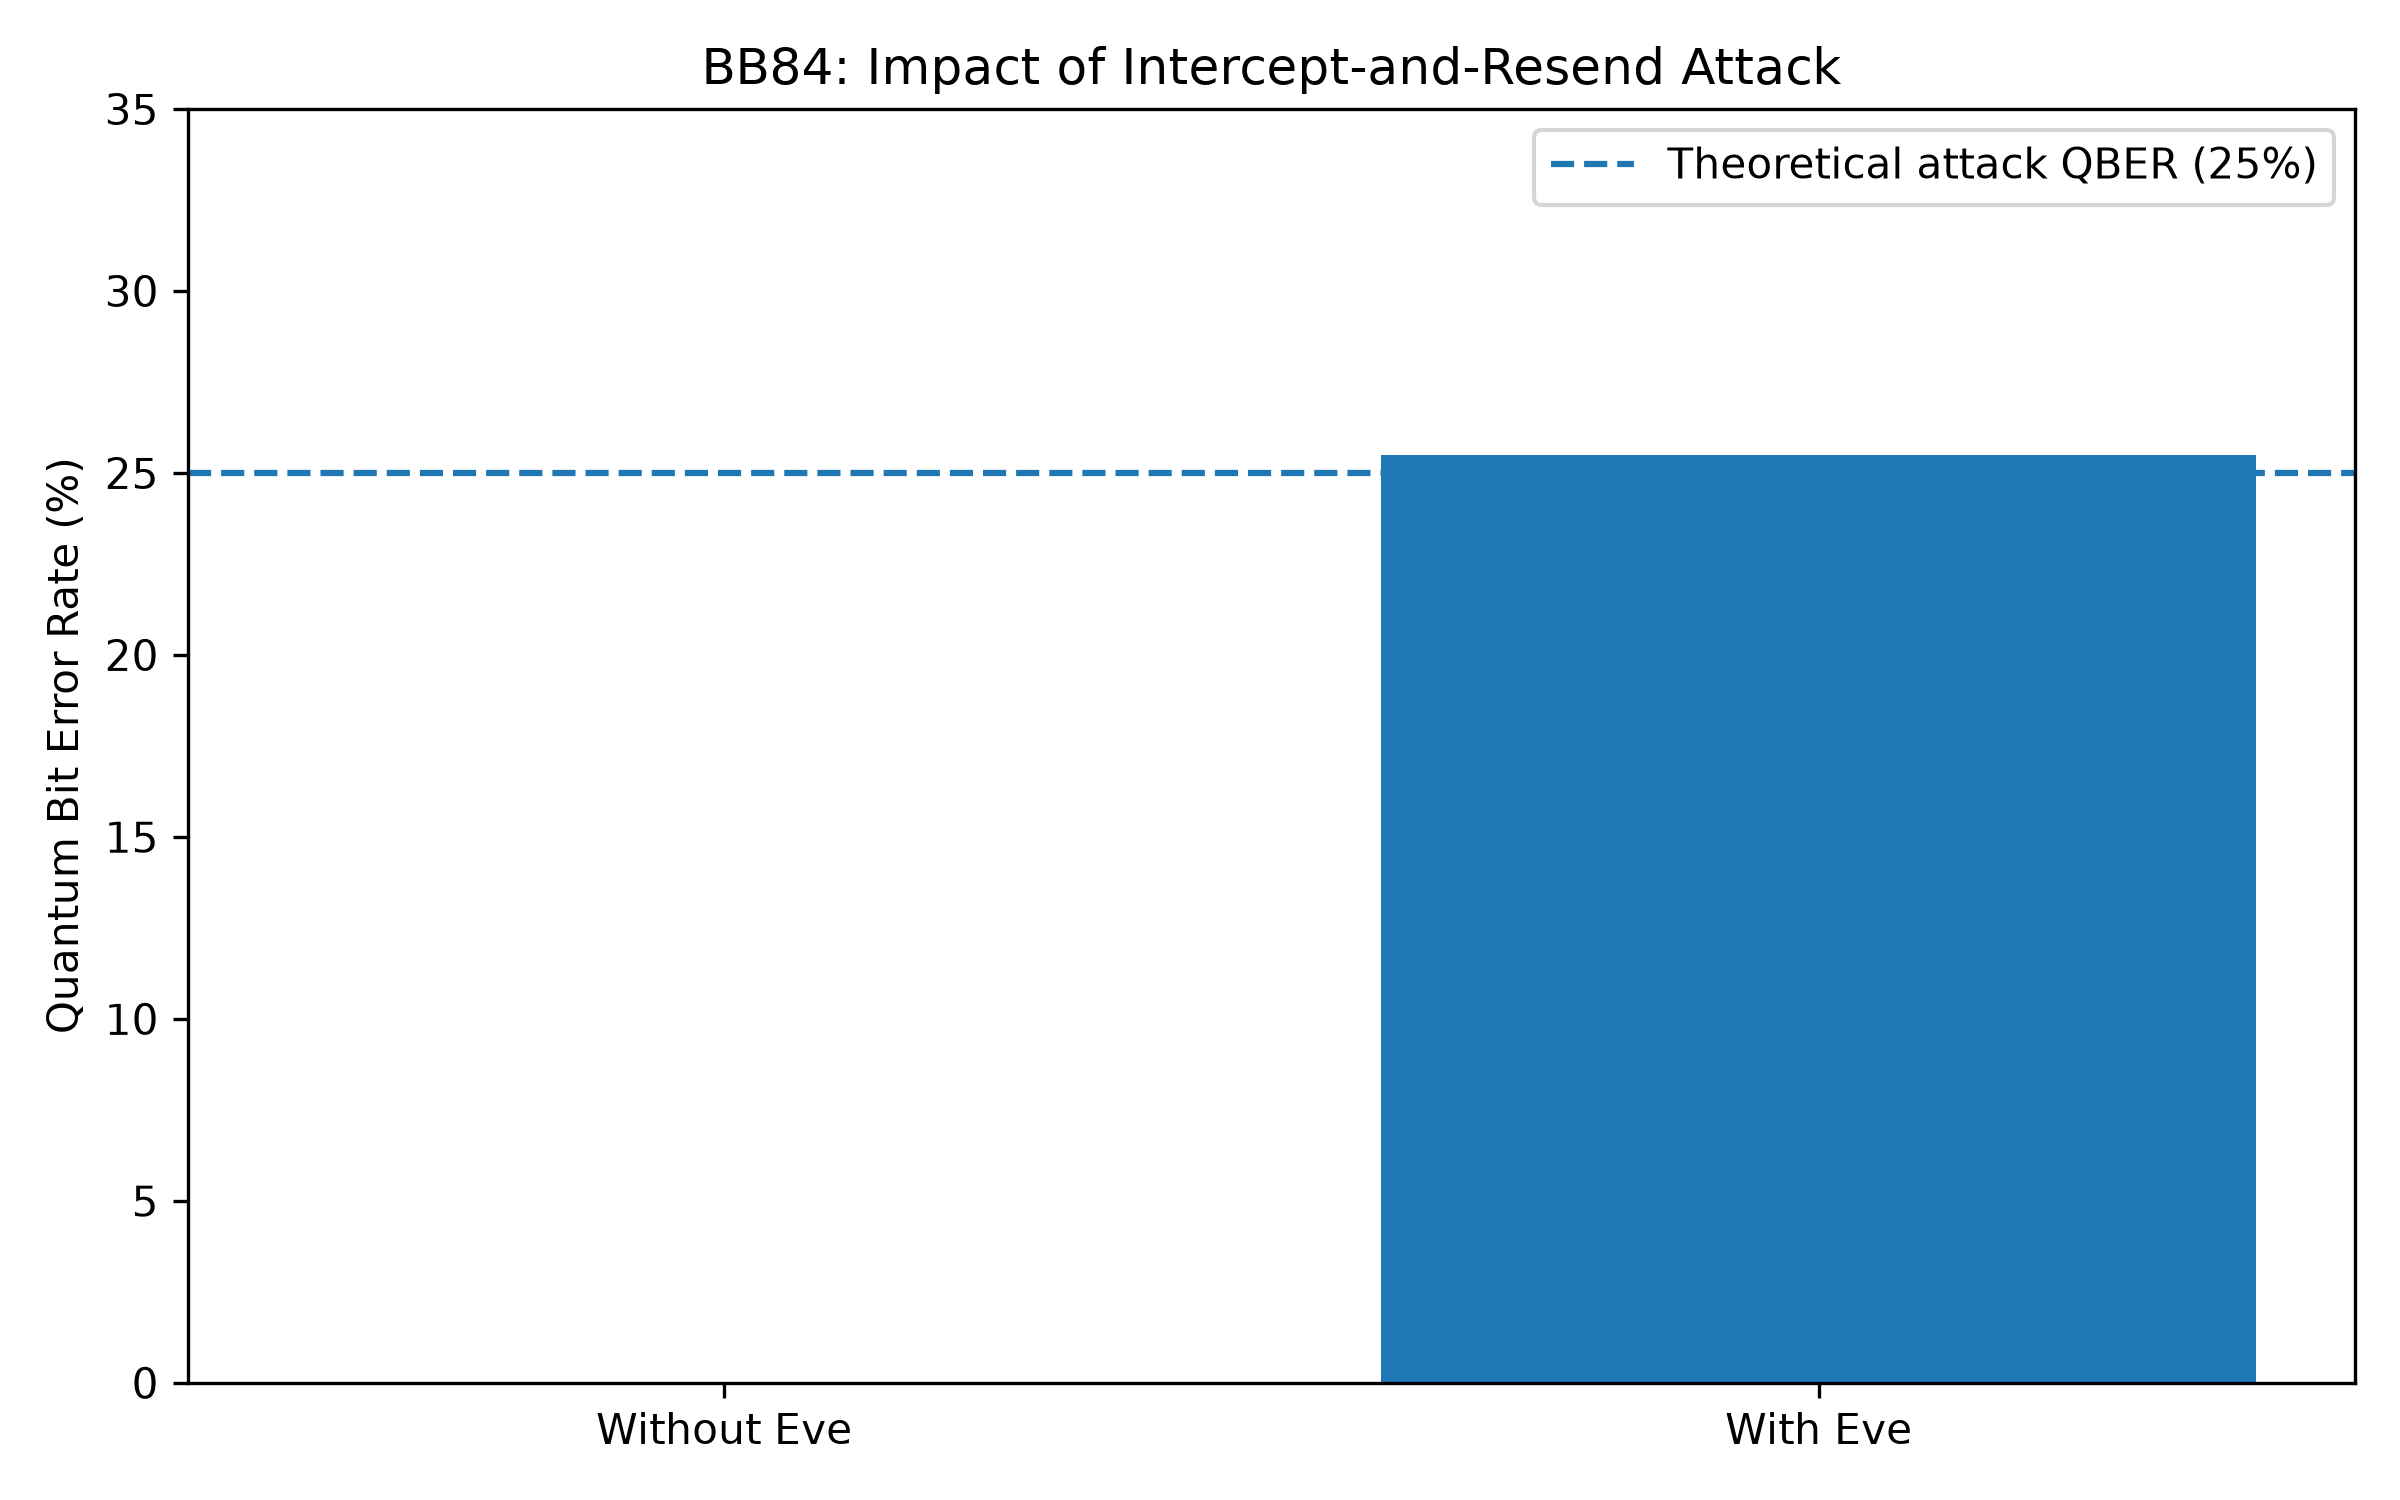
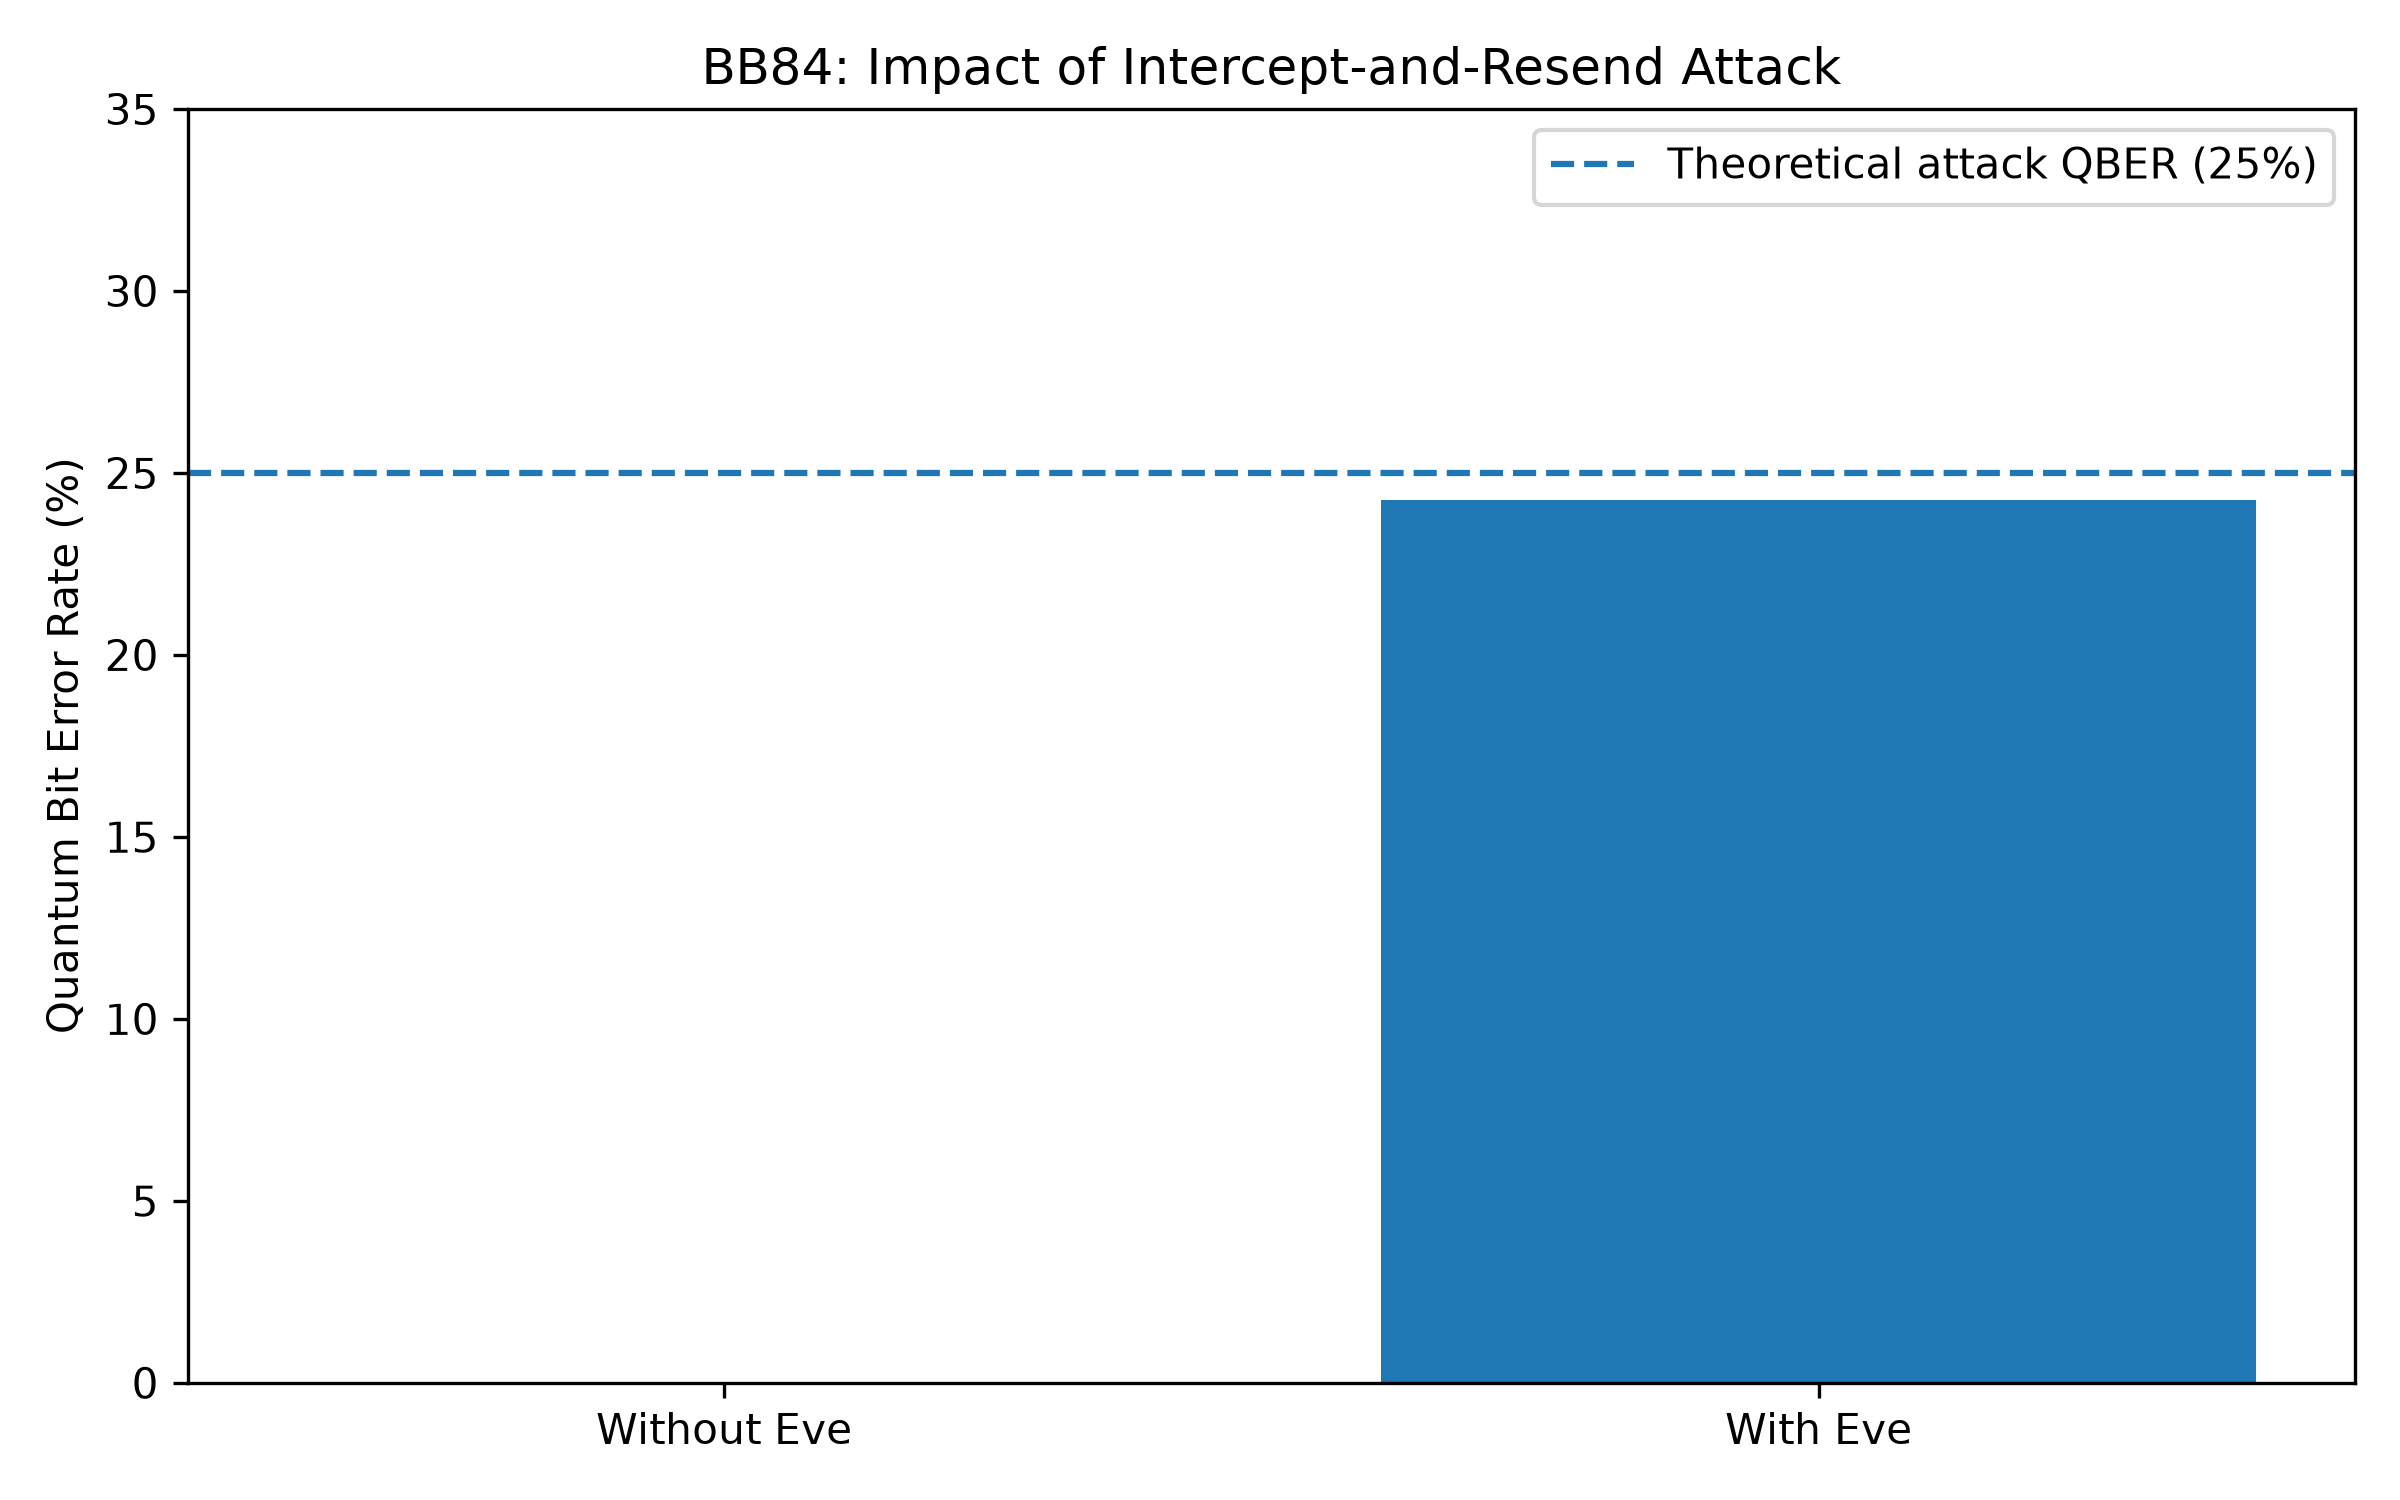
Finalize BB84 simulation and update documentation

Changed region(s): [[0.5625, 0.276, 0.9375, 0.3373]]

diff --git a/bb84/alice.py b/bb84/alice.py
@@ -4,16 +4,15 @@ from bb84.quantum import encode_qubit
 
 def generate_bits(n):
     """Generate n cryptographically secure random bits."""
-    if n <= 0:
-        raise ValueError("Number of bits must be positive")
+    if not isinstance(n, int) or isinstance(n, bool) or n <= 0:
+        raise ValueError("n must be a positive integer")
 
     return [secrets.randbits(1) for _ in range(n)]
 
-
 def generate_bases(n):
     """Generate random Z and X measurement bases."""
-    if n <= 0:
-        raise ValueError("Number of bases must be positive")
+    if not isinstance(n, int) or isinstance(n, bool) or n <= 0:
+        raise ValueError("n must be a positive integer")
 
     return [
         "Z" if secrets.randbits(1) == 0 else "X"

diff --git a/bb84/bob.py b/bb84/bob.py
@@ -4,9 +4,8 @@ from bb84.quantum import measure_qubit
 
 def generate_bases(n):
     """Generate Bob's independent random bases."""
-    if n <= 0:
-        raise ValueError("Number of bases must be positive")
-
+    if not isinstance(n, int) or isinstance(n, bool) or n <= 0:
+        raise ValueError("n must be a positive integer")
     return [
         "Z" if secrets.randbits(1) == 0 else "X"
         for _ in range(n)
@@ -34,3 +33,4 @@ def bob_simulation(states):
 
     return bases, results
 
+    return indices, alice_key, bob_ke

diff --git a/bb84/sifting.py b/bb84/sifting.py
@@ -2,13 +2,15 @@ def compare_bases(alice_bases, bob_bases):
     if len(alice_bases) != len(bob_bases):
         raise ValueError("Basis lengths must match")
 
+    if any(b not in ("Z", "X") for b in alice_bases + bob_bases):
+        raise ValueError("Bases must be Z or X")
+
     return [
         i for i, (a, b) in enumerate(
             zip(alice_bases, bob_bases)
         )
         if a == b
     ]
-
 
 def sift_key(bits, matching_indices):
     return [bits[i] for i in matching_indices]

diff --git a/bb84/security.py b/bb84/security.py
@@ -7,12 +7,14 @@ def calculate_qber(alice_key, bob_key):
     if len(alice_key) == 0:
         raise ValueError("Keys cannot be empty")
 
+    if any(bit not in (0, 1) for bit in alice_key + bob_key):
+        raise ValueError("Keys must contain only binary bits")
+
     errors = sum(
         a != b for a, b in zip(alice_key, bob_key)
     )
 
     total_bits = len(alice_key)
-
     qber = (errors / total_bits) * 100
 
     return errors, total_bits, qber

diff --git a/bb84/quantum.py b/bb84/quantum.py
@@ -35,6 +35,8 @@ def measure_qubit(state, basis, rng=None):
     """Measure a normalized qubit state in the Z or X basis."""
 
     state = np.asarray(state, dtype=complex)
+    if not np.all(np.isfinite(state)):
+        raise ValueError("State must contain finite values")
 
     if state.shape != (2,):
         raise ValueError("State must be a two-element vector")

diff --git a/bb84/eve.py b/bb84/eve.py
@@ -4,6 +4,8 @@ from bb84.quantum import measure_qubit, encode_qubit
 
 def generate_eve_bases(n):
     """Generate Eve's random measurement bases."""
+    if not isinstance(n, int) or isinstance(n, bool) or n < 0:
+        raise ValueError("n must be a non-negative integer")
     return [
         "Z" if secrets.randbits(1) == 0 else "X"
         for _ in range(n)

diff --git a/README.md b/README.md
@@ -2,19 +2,21 @@
 
 ## Project Overview
 
-This project implements the BB84 quantum key distribution protocol using Python and NumPy. It simulates quantum-state preparation, measurement, key sifting, and an intercept-and-resend eavesdropping attack.
+This project implements a software-based simulation of the BB84 quantum key distribution protocol using Python and NumPy.
 
-The primary objective is to demonstrate how quantum measurement disturbance can reveal the presence of an eavesdropper.
+It simulates quantum-state preparation, measurement, basis comparison, key sifting, and an intercept-and-resend eavesdropping attack.
+
+The primary objective is to demonstrate how quantum measurement disturbance can introduce errors into a shared key and help reveal potential eavesdropping.
 
 ## Objectives
 
-- Implement the BB84 quantum key distribution protocol.
-- Simulate quantum states using state vectors.
-- Implement Alice's encoding and Bob's measurement.
+- Implement the fundamental BB84 protocol.
+- Represent quantum states using state vectors.
+- Simulate Alice's encoding and Bob's measurement.
 - Perform basis comparison and key sifting.
-- Simulate Eve's intercept-and-resend attack.
+- Implement Eve's intercept-and-resend attack.
 - Calculate Quantum Bit Error Rate (QBER).
-- Compare secure and attacked communication channels.
+- Compare communication with and without an eavesdropper.
 - Visualize experimental results.
 
 ## Technologies Used
@@ -22,18 +24,13 @@ The primary objective is to demonstrate how quantum measurement disturbance can 
 - Python 3
 - NumPy
 - Matplotlib
-- Python Unittest
+- Python unittest
 - Kali Linux
 
 ## Project Architecture
 
 ```text
 BB84-Quantum-Cryptography/
-│
-├── main.py
-├── config.py
-├── requirements.txt
-├── README.md
 │
 ├── bb84/
 │   ├── __init__.py
@@ -50,24 +47,33 @@ BB84-Quantum-Cryptography/
 ├── results/
 │   └── qber_comparison.png
 │
-└── tests/
-    └── test_bb84.py
+├── screenshots/
+│   └── test_results.png
+│
+├── tests/
+│   └── test_bb84.py
+│
+├── requirements.txt
+├── .gitignore
+└── README.md
 ```
 
 ## BB84 Protocol
 
-BB84 is a quantum key distribution protocol introduced by Charles Bennett and Gilles Brassard in 1984.
+BB84 was introduced by Charles Bennett and Gilles Brassard in 1984.
 
 It uses two quantum bases:
 
 - **Z basis (Computational basis):** |0⟩ and |1⟩
 - **X basis (Diagonal basis):** |+⟩ and |−⟩
 
-Alice randomly generates bits and encoding bases. Bob independently selects measurement bases. They publicly compare their bases and retain only positions where their bases match.
+Alice randomly generates bits and encoding bases. Bob independently chooses measurement bases.
 
-## Eavesdropping Simulation
+They publicly compare their bases and retain only positions where their bases match. This process is called **key sifting**.
 
-The project implements an intercept-and-resend attack:
+## Intercept-and-Resend Attack
+
+The project simulates an intercept-and-resend attack:
 
 1. Eve intercepts the transmitted quantum states.
 2. Eve randomly selects a measurement basis.
@@ -78,44 +84,47 @@ The project implements an intercept-and-resend attack:
 
 ## Quantum Bit Error Rate (QBER)
 
-QBER measures the proportion of differing bits between Alice's and Bob's compared keys.
+QBER measures the percentage of differing bits between Alice's and Bob's sifted keys.
 
 **Formula:**
 
 QBER = (Number of errors / Total compared bits) × 100
 
-For an ideal BB84 channel with no eavesdropping, the expected QBER is 0%.
+For an ideal noiseless BB84 channel without eavesdropping, the expected QBER is 0%.
 
 For an ideal intercept-and-resend attack where Eve randomly chooses between the two BB84 bases, the expected QBER is 25%.
 
 ## Experimental Results
 
-The simulation demonstrated:
+The experiment was executed multiple times using 10,000 transmitted quantum states per run.
 
-| Experiment | Observed QBER |
-|---|---:|
-| Without Eve | 0.00% |
-| With Eve | Approximately 25% |
+Two observed runs:
 
-One experimental run produced 0.00% QBER without Eve and 25.19% QBER with Eve.
+| Experiment | Run 1 | Run 2 |
+|---|---:|---:|
+| Without Eve | 0.00% | 0.00% |
+| With Eve | 23.36% | 24.53% |
+| Theoretical attack QBER | 25% | 25% |
 
-Results vary slightly because of random sampling.
+The results vary because of random sampling. The observed attack QBER values are reasonably close to the theoretical 25% benchmark.
 
-## Visualization
+## QBER Visualization
 
-The project generates a comparison chart:
+The experiment generates a comparison chart:
 
 `results/qber_comparison.png`
 
-The chart compares the measured QBER in the two experiments against the theoretical 25% intercept-and-resend benchmark.
+The chart compares measured QBER with and without Eve against the theoretical 25% intercept-and-resend benchmark.
+
+![BB84 QBER Comparison](results/qber_comparison.png)
 
 ## Installation
 
 Clone the repository:
 
 ```bash
-git clone YOUR_GITHUB_REPOSITORY_URL
-cd BB84-Quantum-Cryptography
+git clone https://github.com/vishwag2520-G/BB84-QUANTUM-CRYPTOGRAPHY.git
+cd BB84-QUANTUM-CRYPTOGRAPHY
 ```
 
 Create and activate a virtual environment:
@@ -133,51 +142,44 @@ pip install -r requirements.txt
 
 ## Running the Experiment
 
-Run from the project root:
+From the project root, run:
 
 ```bash
 python -m experiments.run_experiments
 ```
 
-## 🧪 Testing
+## Automated Testing
 
 The project includes seven automated unit tests covering:
 
+- Quantum-state encoding in Z and X bases
+- Quantum measurement
 - Random bit generation
-- Quantum state preparation
-- Basis selection
-- Measurement operations
-- Key sifting
+- Random basis generation
+- Basis comparison
 - QBER calculation
-- Intercept-and-resend attack detection
-### Test Execution Screenshot
+
+Run the tests:
+
+```bash
+python -m unittest discover -s tests -v
+```
+
+**Verified test result:** 7 tests passed successfully.
 
 ![BB84 Automated Test Results](screenshots/test_results.png)
-- 
-- ## ⚠ Research Limitations
 
-- This project is a software-based BB84 simulation.
+## Research Limitations
+
+- This is a software-based BB84 simulation, not a physical quantum communication system.
 - It does not use real quantum hardware.
 - Quantum noise and hardware imperfections are not fully modeled.
-- The simulation demonstrates the basic BB84 protocol and an intercept-and-resend attack.
+- The implementation demonstrates the basic protocol and an intercept-and-resend attack.
+- It does not implement complete QKD post-processing, including error correction and privacy amplification.
 - It is an educational and experimental implementation, not a production-ready QKD system.
 
-**Test Result:** 7 tests passed successfully.
+## Conclusion
 
+The simulation demonstrates a fundamental security principle of BB84: measuring quantum states in an incorrect basis can disturb the transmitted information.
 
-The current test suite contains seven automated tests.
-All seven tests pass successfully.
-
-## 📊 Experimental Results
-
-| Experiment | Expected QBER |
-|---|---:|
-| Without Eve | 0% |
-| With intercept-and-resend attack | Approximately 25% |
-### QBER Comparison Chart
-
-![BB84 QBER Comparison](results/qber_comparison.png)
-
-### Security Observation
-The intercept-and-resend attack introduces errors into the shared key. 
-This increases the Quantum Bit Error Rate (QBER), helping Alice and Bob detect potential eavesdropping.
+The intercept-and-resend experiment produces an increased QBER, illustrating how Alice and Bob can use error-rate estimation to identify potential eavesdropping.
